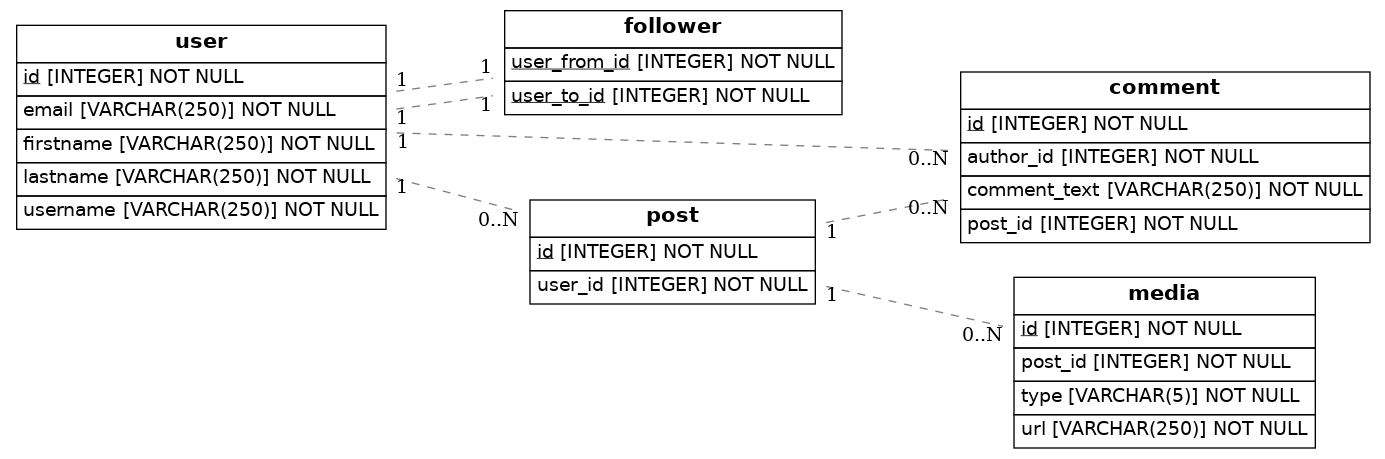
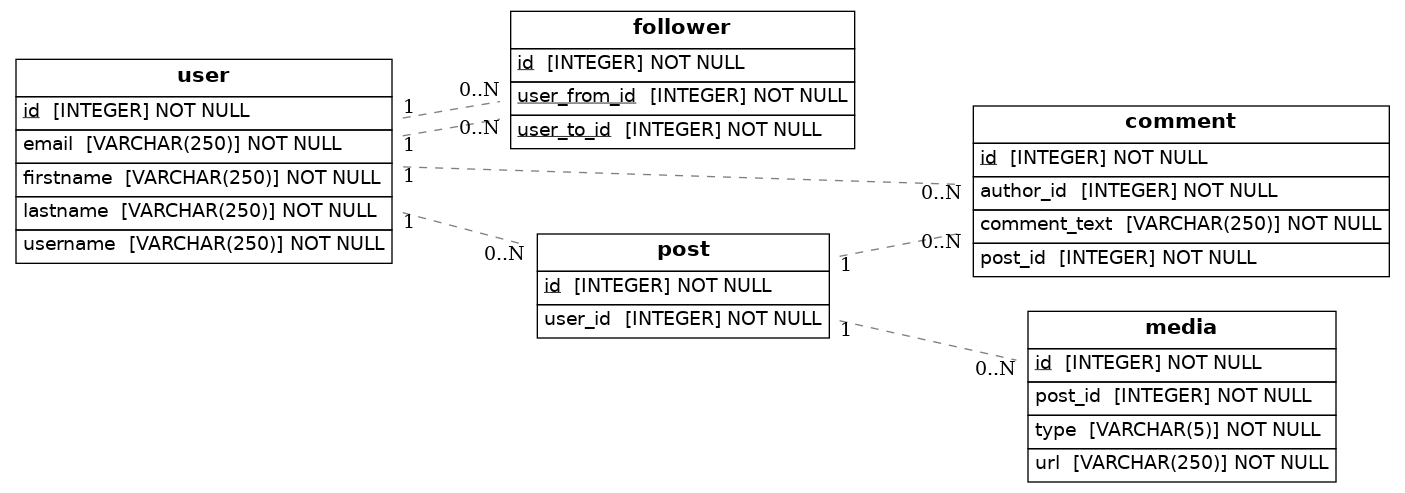
PRIMERA ENTREGA

diff --git a/src/models.py b/src/models.py
@@ -17,10 +17,14 @@ class MyEnum(enum.Enum):
 
 class Follower(Base):
     __tablename__ = "follower"
+    id = Column(Integer, primary_key=True)
     user_from_id =  Column(Integer, ForeignKey('user.id'), primary_key=True) 
     user_to_id =  Column(Integer, ForeignKey('user.id'), primary_key=True)
 
-
+    follower_relation = relationship('User', backref='user' )
+    
+    
+    
 class User(Base):
     __tablename__ = "user"
     id = Column(Integer, primary_key=True) #Define una columna id que es una clave primaria de tipo entero.
@@ -29,10 +33,10 @@ class User(Base):
     lastname = Column(String(250), nullable=False)
     email = Column(String(250), nullable=False, unique=True)
 
-    comments = relationship('Comment', back_populates='user', lazy=True) 
-    posts = relationship('Post', back_populates='user', lazy=True) 
-    following = relationship('Follower', foreign_keys=[Follower.user_from_id], back_populates='following')
-    followers = relationship('Follower', foreign_keys=[Follower.user_to_id],back_populates='followers')
+    comments = relationship('Comment', backref='user', lazy=True) 
+    posts = relationship('Post', backref='user', lazy=True) 
+    
+   
 
 class Comment(Base):
     __tablename__ = "comment"
@@ -47,8 +51,8 @@ class Post(Base):
     id = Column(Integer, primary_key=True)
     user_id =  Column(Integer, ForeignKey('user.id'), nullable=False) 
 
-    comments = relationship('Comment', back_populates='post', lazy=True) 
-    media = relationship('Media', back_populates='post', lazy=True) 
+    comments = relationship('Comment', backref='post', lazy=True) 
+    media = relationship('Media', backref='post', lazy=True) 
 
 class Media(Base):
     __tablename__ = "media"
